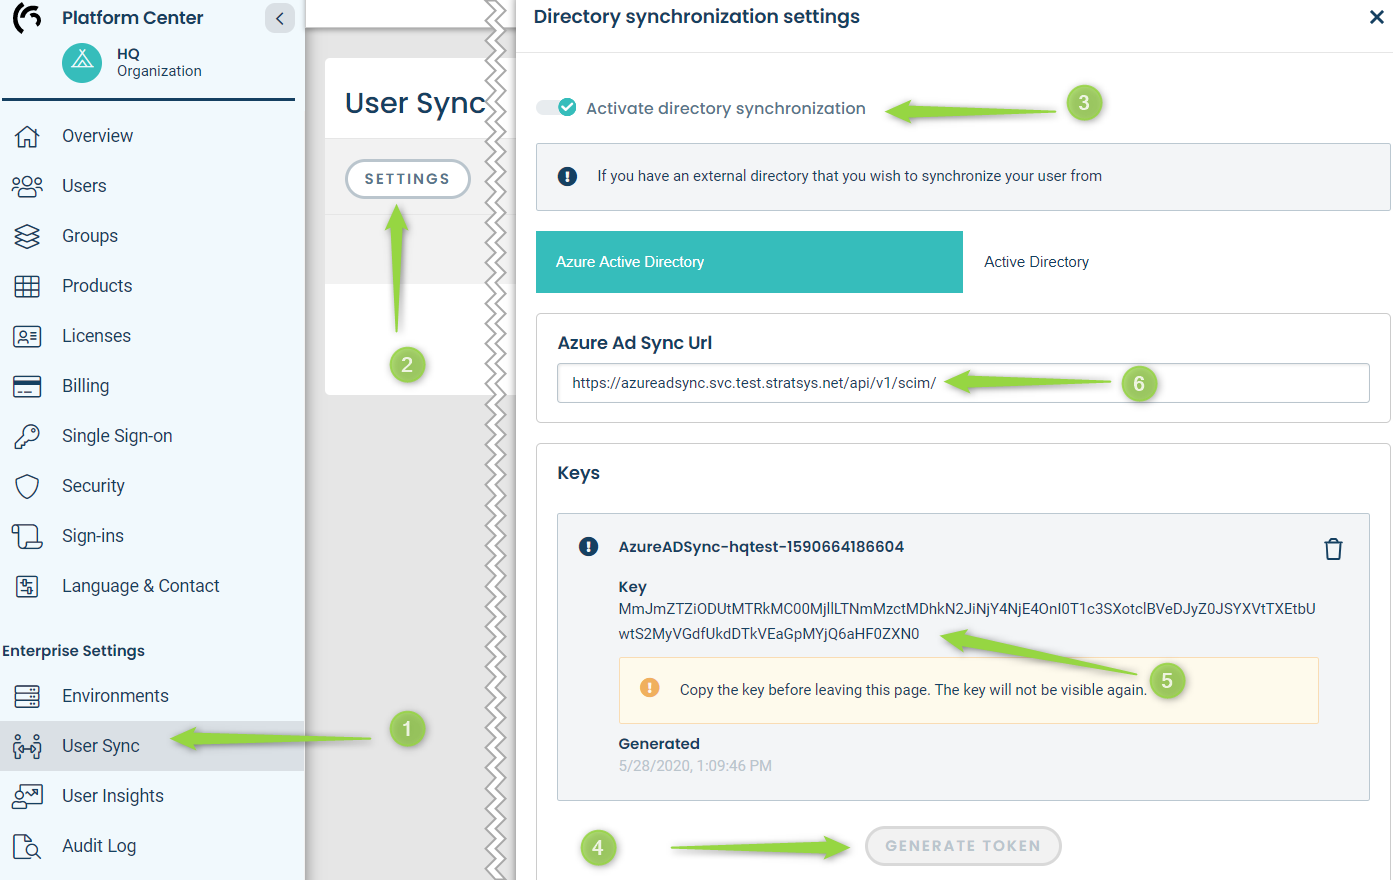
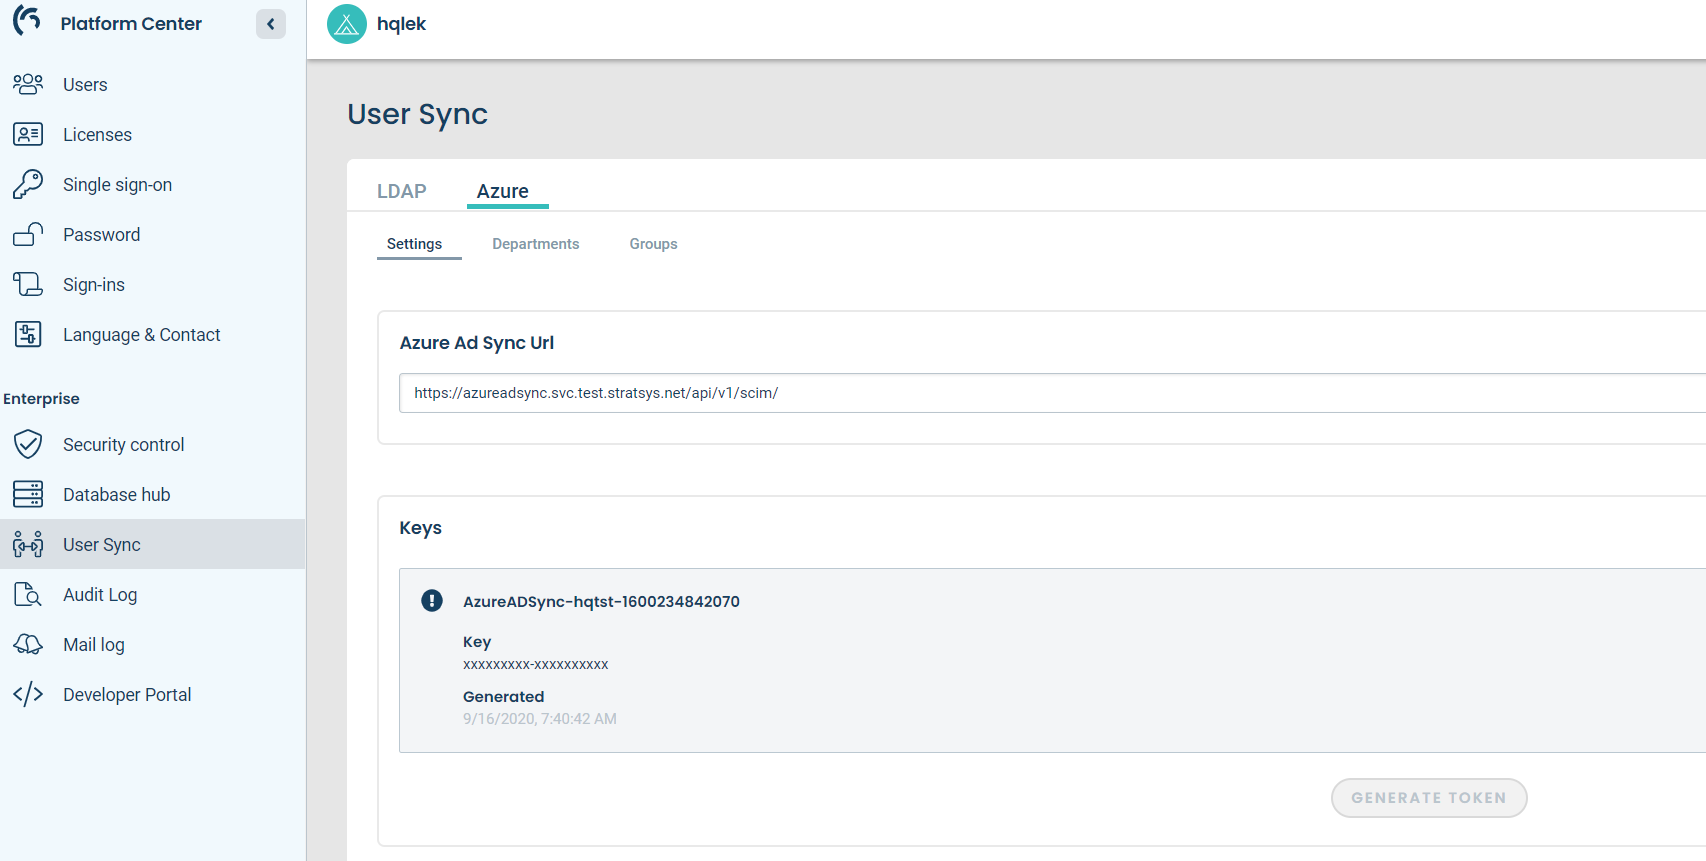
Update aadsync documentation

diff --git a/docs/source/azure_ad_sync/setup.rst b/docs/source/azure_ad_sync/setup.rst
@@ -13,12 +13,13 @@ Prerequisite
 
 .. note:: Make sure you have the *correct urls* for the *correct environment*. Platform urls **in prodution** have the format http://[application].svc.stratsys.com. **Test** urls looks like this https://[application].svc.test.stratsys.net .
 
+.. note:: If you want to sync users that are already created in the platform, the new and the old user must have matching **user name** or **e-mail**. Otherwise, a new user will be created.
 
 Create an organization
 ^^^^^^^^^^^^^^^^^^^^^^
 
 1. Start by logging in to https://stratsys/*companyCode* > **Administration** > **Organization** and create your *organization tree*.
-2. This *organization tree* should mirror your Azure AD department structure. In case you want flexibility regarding their names, check out the `Group and department mapping <#mapping>`_ section.
+2. This *organization tree* should mirror your Azure AD department structure. All departments in Azure AD needs to have a corresponding *alias* in Azure AD Sync. See `Group and department mapping <#mapping>`_ section.
 
 .. figure:: images/StratsysOrganization.png
 	:name: stratsys-organization
@@ -27,22 +28,57 @@ Create an organization
 
 .. tip:: In this example the *organization tree* mirrors the *Azure Demo Active Directory*, which I will use throughout the documentation. Create your own demo `here <https://cdx.transform.microsoft.com/my-tenants>`_.
 
-
 Generate a key 
 ^^^^^^^^^^^^^^
 
-1. Go to `Platform Administration <https://admin.svc.stratsys.com>`_ and click **User Sync** > **Settings** > **Activate directory synchronization** **(3)**.
-2. Under *Keys*, write the *Company code* and click **Generate token** **(4)**.
-3. Copy the *key* **(5)** and store it in a safe place, since you won't be able to retrieve it later.
-4. Copy the *Azure Ad Sync Url* **(6)**  , you will need it later.
+1. Go to `Platform Administration <https://admin.svc.stratsys.com>`_ and click **User Sync** > **Settings** > **Activate directory synchronization**.
+2. Under *Keys*, write the *Company code* and click **Generate token**.
+3. Copy the *key* and store it in a safe place, since you won't be able to retrieve it later.
+4. Copy the *Azure Ad Sync Url*  , you will need it later.
 
 .. figure:: images/GenerateToken.png
 	:width: 750
 		
 	Generate token.
 
+Create and configure groups
+^^^^^^^^^^^^^^^^^^^^^^^^^^^
+Create
+------
+
+1. The groups are created in Stratsys and configured in Azure AD Sync.
+2. After the groups are created in Stratsys, go to **Groups** and click **Show non-external groups**.
+3. There, all groups from Stratsys are listed. Select the groups you want to use and click *Set to external*.
+
+.. figure:: images/AddGroupsFromStratsys.png
+	:width: 750
+		
+	Add group from Stratsys. 
+
+4. The groups are listed as a **prioritized list**. When a user is assigned to a group, the priority determines if this group should be set as *main membership* or *extra membership* for this user. The user will get a new *membership* consisting of the new *group* and the same *department* as the *main membership*.
+5. Each group also has a *department* mapped to it. This acts as a fallback when a user is assigned an unexisting department (it might have been misspelled, or simply not created in Stratsys). So if the group is the *main membership* for the user, its configured *department* is used.  
 
 	
+Configure
+---------
+	
+1. Click on a group to see and edit its configuration.
+2. All groups in Azure AD needs to have a corresponding *alias* in Azure AD Sync. If a group doesn't have an *alias*, the provisioning of this group will fail.	
+3. The *alias* is the name of the corresponding Azure AD group. A group can have several aliases and hence map to several Azure AD groups.
+4. An *alias* must be unique.
+
+.. figure:: images/EditGroup.png
+	:width: 750
+		
+	Edit group.
+	
+Configure departments	
+^^^^^^^^^^^^^^^^^^^^^
+
+1. Departments also needs to have a corresponding *alias*, just as groups. 
+2. Departments does not, however, need to be explicitly selected for provisioning (set as external). Instead they are automatically imported from Stratsys.
+
+
 Create an Azure AD application
 ^^^^^^^^^^^^^^^^^^^^^^^^^^^^^^
 
@@ -66,21 +102,10 @@ Create an Azure AD application
 
 8. Press **Save** at the top of the page.
 
-Synhronize groups
-^^^^^^^^^^^^^^^^^
+Synhronize users and groups
+^^^^^^^^^^^^^^^^^^^^^^^^^^^
 
-1. Now it's time to select *groups* and *users* for synchronization. 
-2. Because of a limitation in the system, in order to be able to configure *groups*, we need to **synchronize groups separately**.
-3. We now have two choices: either we synchronize **empty groups**, or we **disable user synchronization**.
-4. To **disable user synchronization**, go to **Mappings**, click **Provision Azure Active Directory Users** and uncheck all user actions (see :numref:`uncheck-user-actions`). Then click **Save**.
-
-.. figure:: images/UncheckUserActions.png
-	:width: 500
-	:name: uncheck-user-actions
-    
-	Uncheck user actions.
-	
-5. Now you're ready to synchronize your groups. Click **Provisioning** > **Start provisioning**. The synchronization will take a couple of minutes.
+1. Click **Provisioning** > **Start provisioning**. The synchronization will take a couple of minutes.
 6. When the first cycle has finished you can see the outcome on the same page. :numref:`azure-initial-run` is an example of a not so successful run, since it has 19 errors. Check the logs under **(1)** and **(2)**.
 
 .. figure:: images/AzureInitialRun.png
@@ -89,44 +114,18 @@ Synhronize groups
 	Azure initial cycle.
 
 
-Configure groups and departments
-^^^^^^^^^^^^^^^^^^^^^^^^^^^^^^^^
-
-1. If everything went fine, return to the **Platform Administration** > **User Sync** > **Settings**.
-2. You will now see your synchronized groups (provided you have selected a **Standard department**).
-3. The groups are listed as a **prioritized list**. Drag and drop a group to set its prioritity higher or lower. When a user is assigned to a group, the list determines if this group should be set as *main membership* or *extra membership* for this user. The user will get a new *membership* consisting of the new *group* and the same *department* as the *main membership*.
-4. Each group also has a *department* mapped to it. This acts as a fallback when a user is assigned an unexisting department (it might have been misspelled, or simply not created in Stratsys). So if the group is the *main membership* for the user, its configured *department* is used.  
+Synchronization done
+^^^^^^^^^^^^^^^^^^^^
+1. If no error was reported, you're done!
+2. Return to the **Platform Administration** > **User Sync** > **Groups**.
+3. You will now see your *synchronized groups*. They are marked as *provisioned* and has a *Modified at* and *Created at*.
 	
-.. figure:: images/PlatformGroupAndDepartmentConfiguration.png
+.. figure:: images/SynchronizedGroups.png
 	:width: 500
     
-	Platform group and department configuration.
+	Synchronized groups.
 	
-5. The *standard department* is an additional fallback for the department that kicks in if the *main membership group has not been assigned a department*. This should match the standard department set in step 5 in `Create an organization <#create-an-organization>`_
-
-Synchronize users
-^^^^^^^^^^^^^^^^^
-
-.. note:: If you want to sync users that are already created in the platform, the new and the old user must have matching **user name** or **e-mail**. Otherwise, a new user will be created.
-
-1. Go back to https://portal.azure.com
-2. Press **Edit provisioning**.
-3. Now it's time to sync the users. Re-enable user synchronization previously disabled in `step 4 in Synhronize groups <#synhronize-groups>`_.
-4. Click **Restart provisioning**.
-5. If no error was reported, you're done!
-
-Mapping
-^^^^^^^
-
-Work in progress. A ui will be developed for this. In the meantime, use `swagger <https://azureadsync.svc.stratsys.com/swagger/index.html>`_
-
-
-Client
-^^^^^^
-
-1. The **client** that is used for authentication is **platform-azureadsync.**
-2. It has the **azureadsync.readwrite**-scope.
-
+4. Go to **Users** and make sure all users has been synchronized.
 
 Resources
 ^^^^^^^^^
